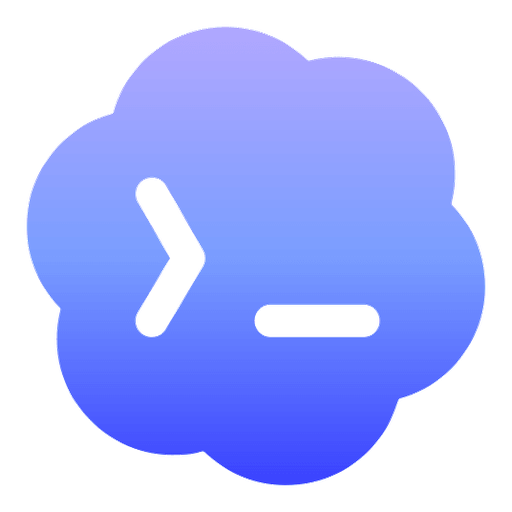
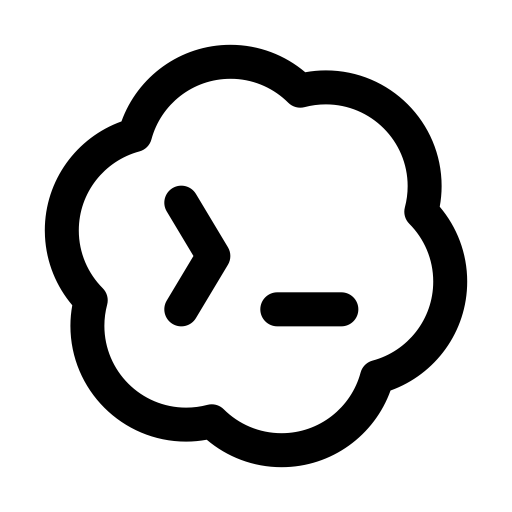
fix: preserve codex updates in Home Assistant

diff --git a/codex/CHANGELOG.md b/codex/CHANGELOG.md
@@ -2,6 +2,16 @@
 
 All notable changes to this project will be documented in this file.
 
+## [0.2.16] - 2026-06-16
+
+### Added
+- Added a Home Assistant launcher for Codex that can run npm-updated Codex entrypoints from the persistent user prefix through `node`, avoiding `/data` shebang execution failures after in-terminal CLI updates.
+
+### Changed
+- Routed interactive `codex` commands and automatic terminal startup through the launcher while preserving fallback to the image-installed Codex CLI.
+- Updated repository metadata and GHCR image references for the EphraimElgrabli fork.
+- Updated the add-on icon and logo artwork.
+
 ## [0.2.15] - 2026-05-31
 
 ### Fixed

diff --git a/codex/README.md b/codex/README.md
@@ -18,7 +18,7 @@ The App keeps OpenAI credentials out of Home Assistant options. Codex signs in u
 
 ## Install
 
-1. Add `https://github.com/kecksdigital/codex-hass` to the Home Assistant Add-on Store repositories.
+1. Add `https://github.com/EphraimElgrabli/codex-hass` to the Home Assistant Add-on Store repositories.
 2. Install **Codex**.
 3. Review the App options.
 4. Start Codex.
@@ -185,6 +185,8 @@ The update is bounded by `codex_update_timeout`. If the update fails or times ou
 
 When you run npm global installs from the interactive terminal, the App uses a persistent user-owned npm cache and prefix under the Codex user's home directory. That keeps `npm install -g @openai/codex@latest` writable for the unprivileged runtime user and makes the installed `codex` binary available on `PATH` in later sessions.
 
+The terminal routes `codex` through an App-owned launcher so npm-updated Codex entrypoints stored under `/data/codex-home` can run through `node` even when Home Assistant restricts direct shebang execution from persistent data mounts. If the user-installed CLI cannot be launched, the App falls back to the image-installed Codex CLI.
+
 ## Home Assistant App Updates
 
 Home Assistant App updates are separate from Codex CLI updates.
@@ -192,7 +194,7 @@ Home Assistant App updates are separate from Codex CLI updates.
 The App version comes from `codex/config.yaml`. When a new version is pushed to this repository, the GitHub Actions workflow publishes matching images to:
 
 ```text
-ghcr.io/kecksdigital/codex-hass:<version>
+ghcr.io/ephraimelgrabli/codex-hass:<version>
 ```
 
 Home Assistant then sees the higher version and pulls the matching prebuilt image. Enable **Auto update** on the Codex App page if you want Home Assistant to install those App updates automatically.
@@ -266,6 +268,6 @@ Disable `auto_update_codex` unless you specifically need the newest CLI on every
 
 ## Support
 
-- [Repository](https://github.com/kecksdigital/codex-hass)
-- [Issues](https://github.com/kecksdigital/codex-hass/issues)
+- [Repository](https://github.com/EphraimElgrabli/codex-hass)
+- [Issues](https://github.com/EphraimElgrabli/codex-hass/issues)
 - [Home Assistant Community](https://community.home-assistant.io/)

diff --git a/README.md b/README.md
@@ -8,13 +8,13 @@ This repository publishes one Home Assistant App: `Codex`. It gives you a browse
 
 ## Install
 
-[![Add Repository](https://my.home-assistant.io/badges/supervisor_add_addon_repository.svg)](https://my.home-assistant.io/redirect/supervisor_add_addon_repository/?repository_url=https%3A%2F%2Fgithub.com%2Fkecksdigital%2Fcodex-hass)
+[![Add Repository](https://my.home-assistant.io/badges/supervisor_add_addon_repository.svg)](https://my.home-assistant.io/redirect/supervisor_add_addon_repository/?repository_url=https%3A%2F%2Fgithub.com%2FEphraimElgrabli%2Fcodex-hass)
 
 Manual install:
 
 1. Open **Settings** -> **Add-ons** -> **Add-on Store** in Home Assistant.
 2. Open **Repositories** from the three-dot menu.
-3. Add `https://github.com/kecksdigital/codex-hass`.
+3. Add `https://github.com/EphraimElgrabli/codex-hass`.
 4. Install **Codex**.
 5. Start the App and open it from the sidebar.
 
@@ -54,7 +54,7 @@ Home Assistant updates the Codex App when this repository publishes a higher ver
 The App uses prebuilt images from GitHub Container Registry:
 
 ```text
-ghcr.io/kecksdigital/codex-hass:<version>
+ghcr.io/ephraimelgrabli/codex-hass:<version>
 ```
 
 Enable **Auto update** on the Codex App page in Home Assistant if you want Home Assistant to install future App versions automatically.
@@ -72,7 +72,7 @@ Useful upstream docs:
 
 ## Support
 
-- [Issues](https://github.com/kecksdigital/codex-hass/issues)
+- [Issues](https://github.com/EphraimElgrabli/codex-hass/issues)
 - [Home Assistant Community](https://community.home-assistant.io/)
 
 ## License